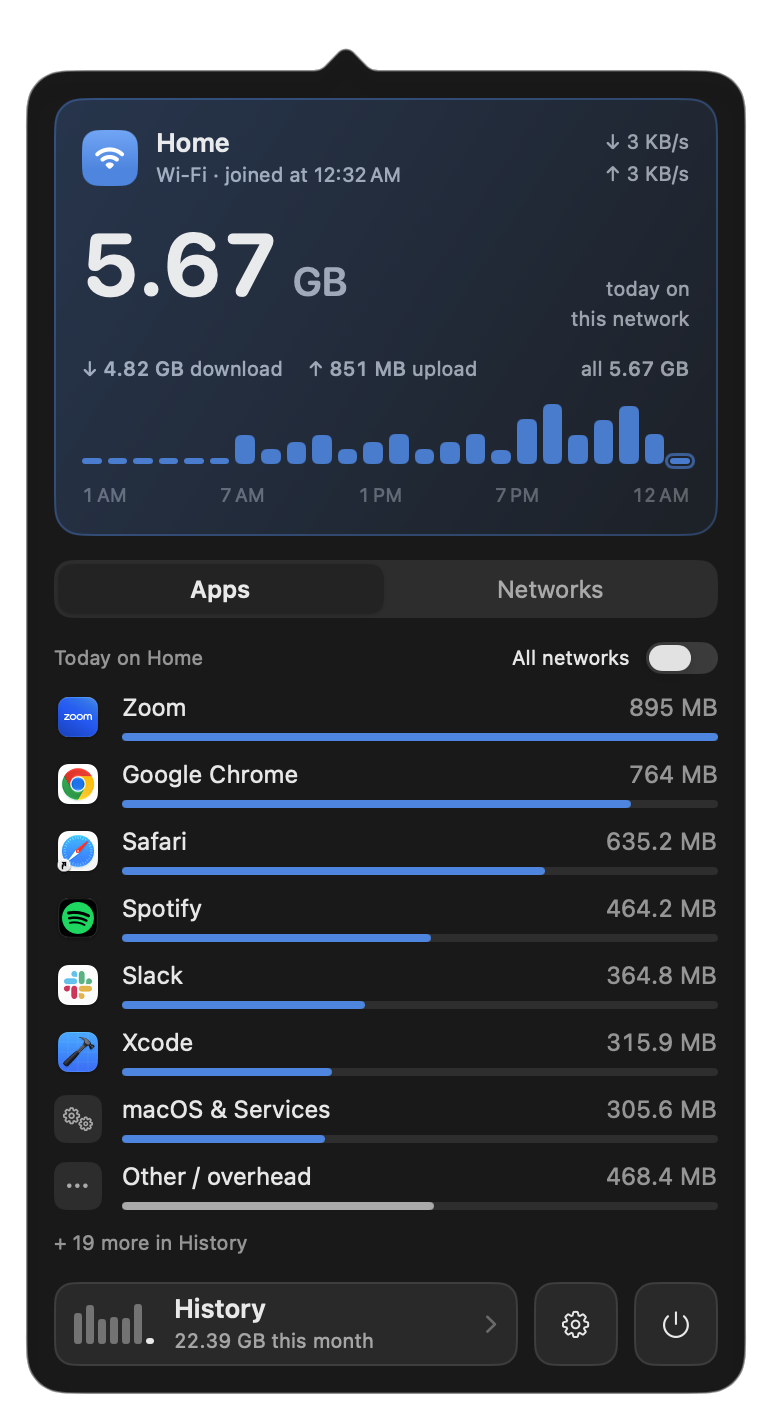
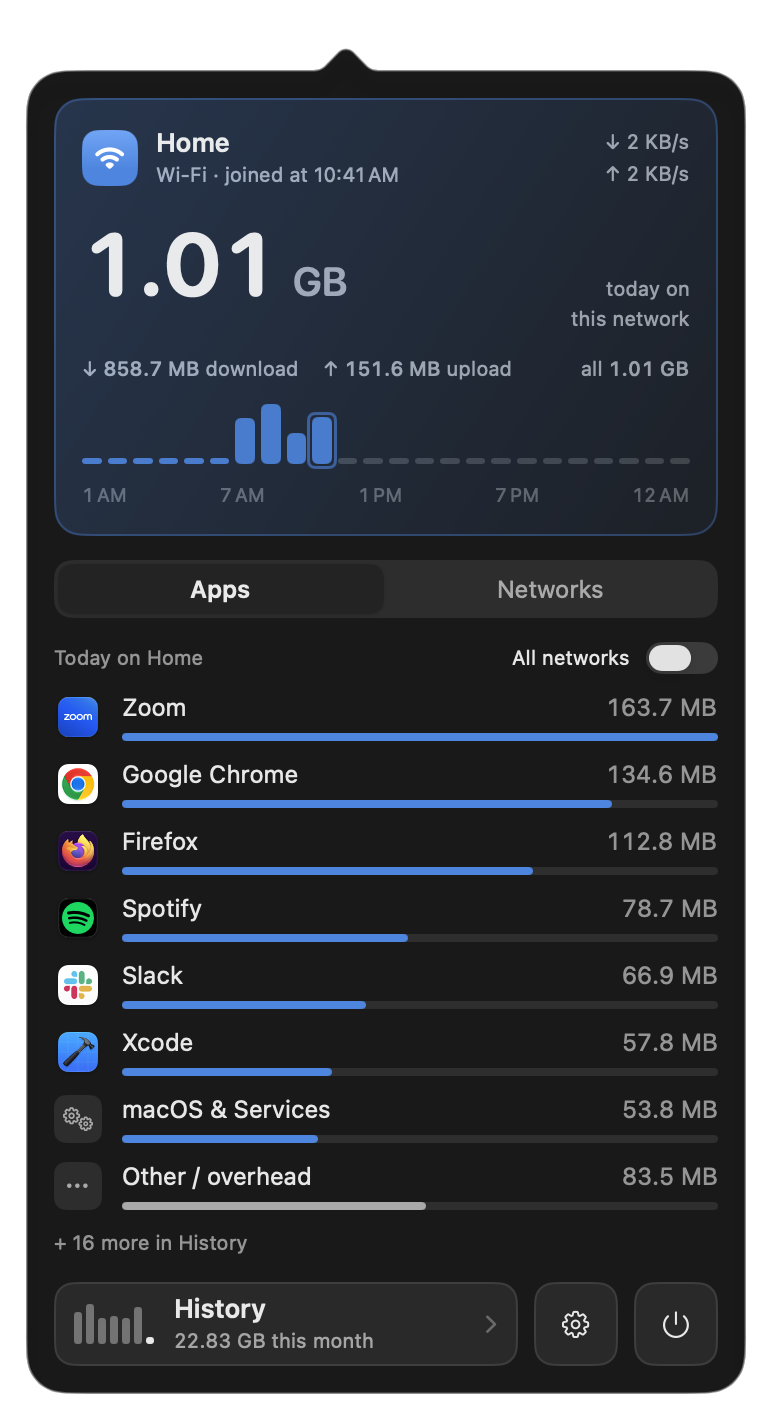
fix(update): quit only this user's app, test the update of a running app
- soroband update's pgrep is limited to the current uid, so a second account updating a shared /Applications/Soroband.app never counts another user's running copy as its own
- a new test updates a running stand-in app (compiled, reaped as launchd would) and checks it is quit, replaced and opened again
- the release dry run also runs on version bumps (core/Cargo.toml, the Xcode project); a tag refuses notes holding TODO(release), which marks CHANGELOG's Location result
- GLOSSARY: the dogfood build is a source build; README's popover is recaptured from fresh data with matching alt text

diff --git a/core/crates/soroband-cli/tests/update.rs b/core/crates/soroband-cli/tests/update.rs
@@ -29,9 +29,14 @@ impl Fixture {
     /// Publishes a release tagged `tag` whose DMG holds an app reading "new"; `checksum` replaces
     /// the DMG's real checksum when given.
     fn publish(&self, tag: &str, checksum: Option<&str>) -> String {
+        self.publish_with(tag, checksum, |app| make_app(app, "new"))
+    }
+
+    /// Publishes a release whose DMG holds the app `make` writes.
+    fn publish_with(&self, tag: &str, checksum: Option<&str>, make: impl FnOnce(&Path)) -> String {
         let release = self.dir.join("release");
         let source = release.join("source");
-        make_app(&source.join("Soroband.app"), "new");
+        make(&source.join("Soroband.app"));
         let dmg = release.join("Soroband.dmg");
         let created = Command::new("/usr/bin/hdiutil")
             .args([
@@ -113,6 +118,19 @@ fn make_app(app: &Path, executable: &str) {
     std::fs::write(macos.join("Soroband"), executable).unwrap();
 }
 
+/// Compiles the C program `source` to `output`.
+fn compile(source: &str, output: &Path) {
+    std::fs::create_dir_all(output.parent().unwrap()).unwrap();
+    let mut cc = Command::new("/usr/bin/cc")
+        .args(["-x", "c", "-", "-o"])
+        .arg(output)
+        .stdin(std::process::Stdio::piped())
+        .spawn()
+        .unwrap();
+    std::io::Write::write_all(&mut cc.stdin.take().unwrap(), source.as_bytes()).unwrap();
+    assert!(cc.wait().unwrap().success());
+}
+
 fn text(output: &Output) -> String {
     format!(
         "{}{}",
@@ -130,6 +148,65 @@ fn update_installs_a_newer_release_in_the_apps_place() {
     assert_eq!(fixture.installed(), "new");
     assert_eq!(fixture.applications(), ["Soroband.app"]);
     assert!(text(&output).contains("to 999.0.0"), "{}", text(&output));
+}
+
+/// The app is running while it updates, as it normally is: a program at the app's executable path
+/// that waits for a signal stands in for the menu bar process. The new app is a bundle macOS can
+/// open, whose executable exits at once. Both are compiled here: copies of system binaries in an
+/// app bundle are held at launch by macOS's checks.
+#[test]
+fn update_quits_a_running_app_and_opens_the_new_one() {
+    let fixture = Fixture::new("running");
+    let executable = fixture.app.join("Contents/MacOS/Soroband");
+    compile(
+        "#include <unistd.h>\nint main(void) { pause(); return 0; }",
+        &executable,
+    );
+    let release = fixture.publish_with("v999.0.0", None, |app| {
+        let macos = app.join("Contents/MacOS");
+        std::fs::create_dir_all(&macos).unwrap();
+        compile("int main(void) { return 0; }", &macos.join("Soroband"));
+        std::fs::write(
+            app.join("Contents/Info.plist"),
+            r#"<?xml version="1.0" encoding="UTF-8"?>
+<plist version="1.0"><dict>
+<key>CFBundleExecutable</key><string>Soroband</string>
+<key>CFBundleIdentifier</key><string>io.github.abouleinein.soroband.update-test</string>
+<key>CFBundlePackageType</key><string>APPL</string>
+</dict></plist>
+"#,
+        )
+        .unwrap();
+    });
+    // At its real path, as LaunchServices starts an app: the temporary directory is behind the
+    // /var -> /private/var link, and the command finds the app from its own resolved path.
+    let mut running = Command::new(std::fs::canonicalize(&executable).unwrap())
+        .spawn()
+        .unwrap();
+    let pid = running.id();
+    // Reaped as soon as it exits, as launchd reaps an app: an unreaped exit stays a zombie, which
+    // `kill -0` still finds.
+    let reaper = std::thread::spawn(move || running.wait().unwrap());
+
+    let output = fixture.update(&release, &[]);
+    let exited = reaper.is_finished();
+    if !exited {
+        let _ = Command::new("/bin/kill")
+            .args(["-9", &pid.to_string()])
+            .status();
+    }
+    reaper.join().unwrap();
+    assert!(output.status.success(), "{}", text(&output));
+    assert!(exited, "the running app was not quit");
+    assert!(text(&output).contains("and opened it"), "{}", text(&output));
+    let new = fixture
+        .dir
+        .join("release/source/Soroband.app/Contents/MacOS/Soroband");
+    assert_eq!(
+        std::fs::read(&executable).unwrap(),
+        std::fs::read(new).unwrap()
+    );
+    assert_eq!(fixture.applications(), ["Soroband.app"]);
 }
 
 #[test]

diff --git a/core/crates/soroband-cli/src/update.rs b/core/crates/soroband-cli/src/update.rs
@@ -236,15 +236,23 @@ fn run_tool(command: &mut Command) -> Result<(), String> {
     }
 }
 
-/// Quits the app's menu bar process (its UI process quits with it) and waits for it to exit.
-/// Returns whether it was running.
+unsafe extern "C" {
+    /// `getuid(2)` from libSystem.
+    fn getuid() -> u32;
+}
+
+/// Quits this user's copy of the app's menu bar process (its UI process quits with it) and waits
+/// for it to exit. Returns whether it was running. Another user's copy of the same app is left
+/// alone: this user cannot quit it, and `kill -0` on it fails as if it had exited.
 fn quit(app: &Path) -> Result<bool, String> {
     let pattern = format!(
         "^{}/Contents/MacOS/Soroband$",
         regex_escape(&app.to_string_lossy())
     );
+    // SAFETY: getuid takes no arguments and cannot fail.
+    let uid = unsafe { getuid() }.to_string();
     let output = Command::new("/usr/bin/pgrep")
-        .args(["-f", &pattern])
+        .args(["-U", &uid, "-f", &pattern])
         .output()
         .map_err(|e| format!("cannot run pgrep: {e}"))?;
     let pids: Vec<String> = String::from_utf8_lossy(&output.stdout)

diff --git a/CHANGELOG.md b/CHANGELOG.md
@@ -1,6 +1,6 @@
 # Changelog
 
-Every release of Soroband. The format follows [Keep a Changelog](https://keepachangelog.com/en/1.1.0/), and versions follow [Semantic Versioning](https://semver.org/). The release workflow publishes each version's section below as its GitHub release notes, and refuses a section still marked Unreleased.
+Every release of Soroband. The format follows [Keep a Changelog](https://keepachangelog.com/en/1.1.0/), and versions follow [Semantic Versioning](https://semver.org/). The release workflow publishes each version's section below as its GitHub release notes, and refuses a section still marked Unreleased or holding a `TODO(release)`.
 
 ## [0.1.0] - Unreleased
 
@@ -20,6 +20,6 @@ The first release.
 
 - **Per-app counting needs macOS 27.** Soroband reads the kernel's per-connection records only in the layouts it has seen on a real Mac. On macOS 14 to 26 it counts each network's total without the per-app breakdown, and the popover says so.
 - **Not notarized.** Soroband is signed ad hoc, without a paid Apple Developer account, so macOS blocks the first launch of the downloaded app once: open System Settings › Privacy & Security and click Open Anyway. An app built from source opens without it.
-- **Location access after an update.** Each release is signed ad hoc, so macOS treats an updated app as a new one. Whether it asks for Location access again after `soroband update` is checked before this release is published, and stated here.
+- **Location access after an update.** Each release is signed ad hoc, so macOS treats an updated app as a new one. TODO(release): whether it asks for Location access again after `soroband update`, as tested.
 
 [0.1.0]: https://github.com/AboulEinein/soroband/releases/tag/v0.1.0

diff --git a/README.md b/README.md
@@ -9,7 +9,7 @@
 
 Soroband is a free, open-source macOS menu bar app that meters your internet usage for every app on every network you join: home Wi‑Fi, the office, a café, your iPhone hotspot. The daily counter starts again each day; the history never does. The name is soroban, the Japanese abacus, plus bandwidth.
 
-<p align="center"><img src="docs/screenshots/popover.png" width="386" alt="The popover: today's 5.67 GB on the Home Wi-Fi network with hourly bars, and today's apps, led by Zoom, Google Chrome and Firefox"></p>
+<p align="center"><img src="docs/screenshots/popover.png" width="386" alt="The popover: today's 1.01 GB on the Home Wi-Fi network with hourly bars, and today's apps, led by Zoom, Google Chrome and Firefox"></p>
 
 ## Why
 

diff --git a/GLOSSARY.md b/GLOSSARY.md
@@ -283,7 +283,7 @@ The steps a milestone needs a person for (a permission prompt, a real hotspot), 
 M3's exit criterion: the user runs the dogfood build every day for a week.
 
 **Dogfood build**:
-The installed release build the user runs daily.
+The installed source build the user runs daily.
 
 **Release**:
 A version published on GitHub by the release workflow from a version tag: `Soroband.dmg` (the app, with the `soroband` command in `Contents/Helpers`), its SHA-256 checksum, and its section of `CHANGELOG.md` as notes. Signed ad hoc, not notarized; `soroband update` installs the newest one.
